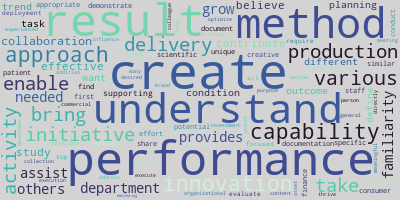
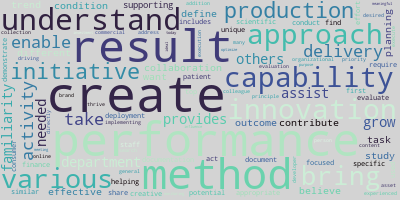
completed parsing bigrams for stop words

diff --git a/nlp_main.py b/nlp_main.py
@@ -308,7 +308,11 @@ def clean_for_nlp(series_of_interest):
                                             'conducted', 'legal', 'placing', 'manager', 'talent', 'firm', '100', 'ongoing',
                                             'ethnicity', 'conference', 'resident', 'submitting', 'acknowledge', 'mix', 'building',
                                             'celebrates', 'httpswwwdolgovofccppdfpaytransp_20english_formattedesqa508cpdf',
-                                            'vacation', 'sick', 'january', '2022', 'tiger', 'global']))) + ds_skills_combined
+                                            'vacation', 'sick', 'january', '2022', 'tiger', 'global', 'get', 'done',
+                                            'top', 'priority', 'internally', 'externally', 'performance', 'indicator',
+                                            'continue', 'grow', 'faculty', 'staff', 'bring', 'closer', 'result',
+                                            'virtual', 'assistant', 'approved', 'condition', 'save', 'money']))) + ds_skills_combined
+    
     
     stop_words = nltk.corpus.stopwords.words('english') + additional_stopwords + ds_cred_terms + ds_prof_skill_terms + ds_soft_skill_terms + ds_tech_skill_terms
     
@@ -953,6 +957,7 @@ ds_soft_skill_terms = ['ad',
                      'collaborative',
                      'collaboratively',
                      'communicate',
+                     'communicating', 
                      'communication',
                      'complex',
                      'concise',
@@ -1208,7 +1213,7 @@ terms_for_nlp  = clean_for_nlp(series_of_interest)
 visualize_indeed_data(df)
 
 # execute nlp   NEED TO DECONFLICT SKILL LISTS AND STOPWORD LISTS
-n_gram_count = 2
+n_gram_count = 1
 n_gram_range_start, n_gram_range_stop  = 0, 200 # 3900, 4000 # NEXT - advance the range
 n_grams = count_n_grams(terms_for_nlp, n_gram_count, n_gram_range_start, n_gram_range_stop)
 
